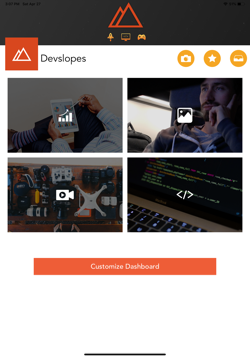
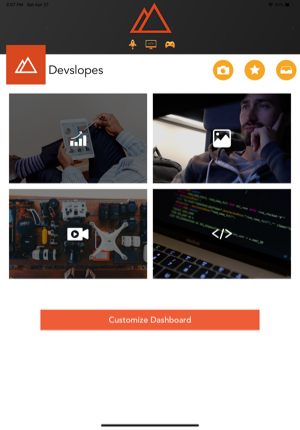
Fixed Image size

diff --git a/README.md b/README.md
@@ -4,7 +4,9 @@ Profile app was built using training material from [Devslopes](https://www.devsl
 Profile app is a simple one screen application to show case the resizing of your app for both iPhone and iPad.
 Profile app will scale automatically to the size of your device using the space available to your app.
 
-![alt text][homeScreen1] ![alt text][homeScreen2]
+![alt text][homeScreen1]
+
+![alt text][homeScreen2]
 
 ### Topics learned
 1. Auto layout for iPhone.
